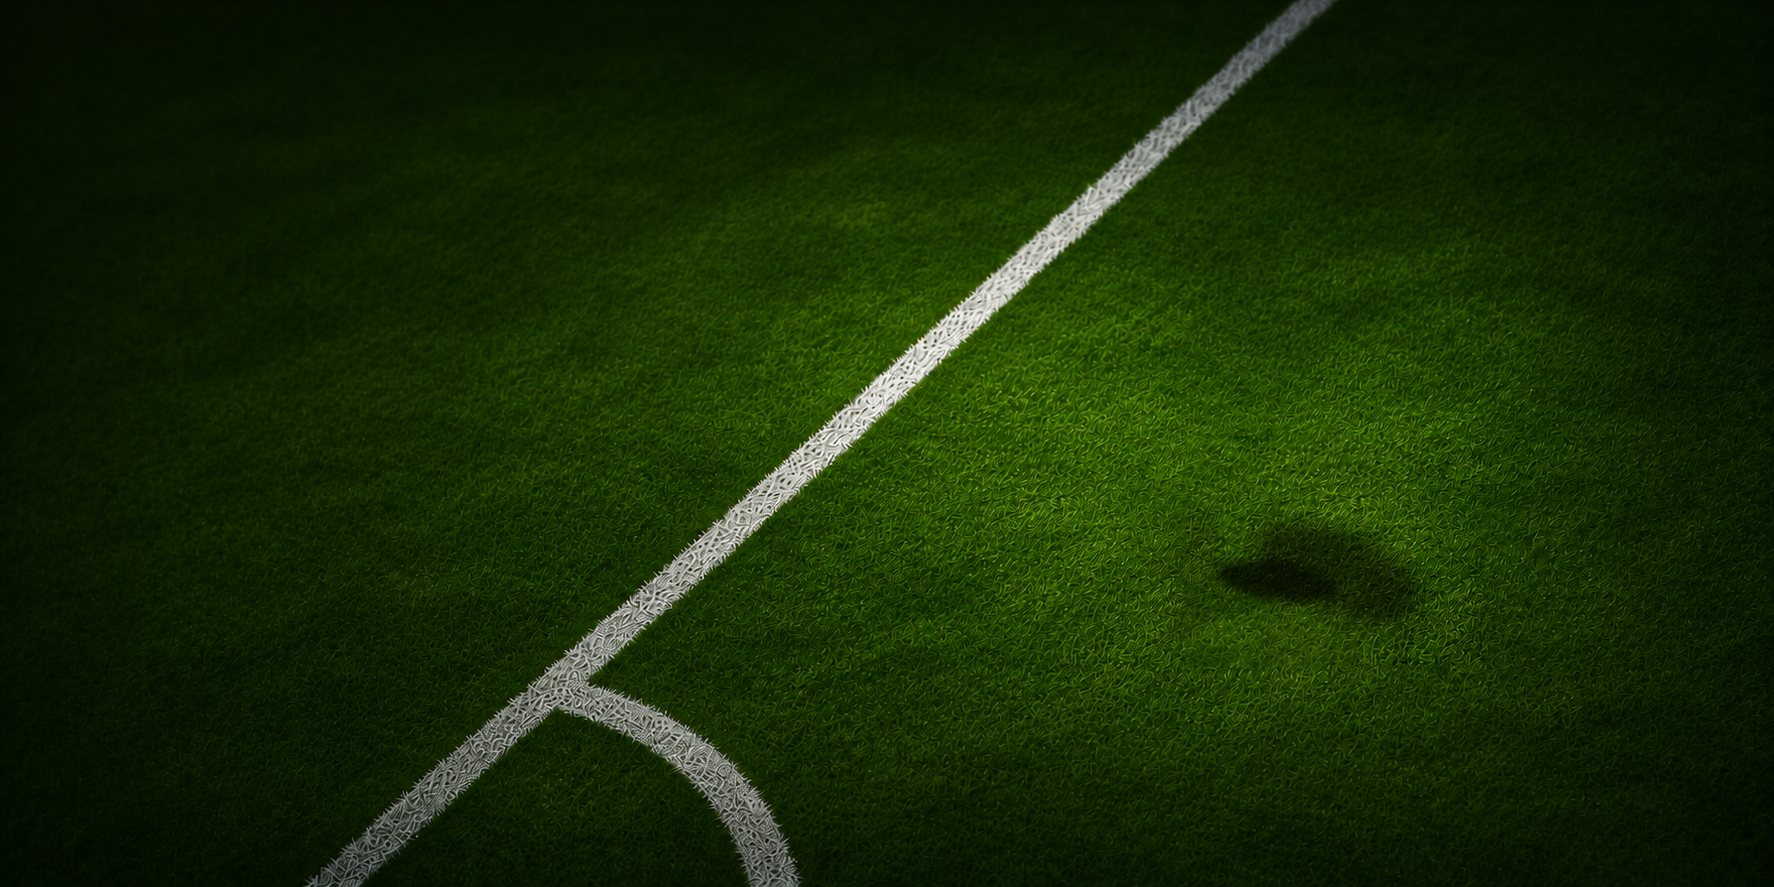
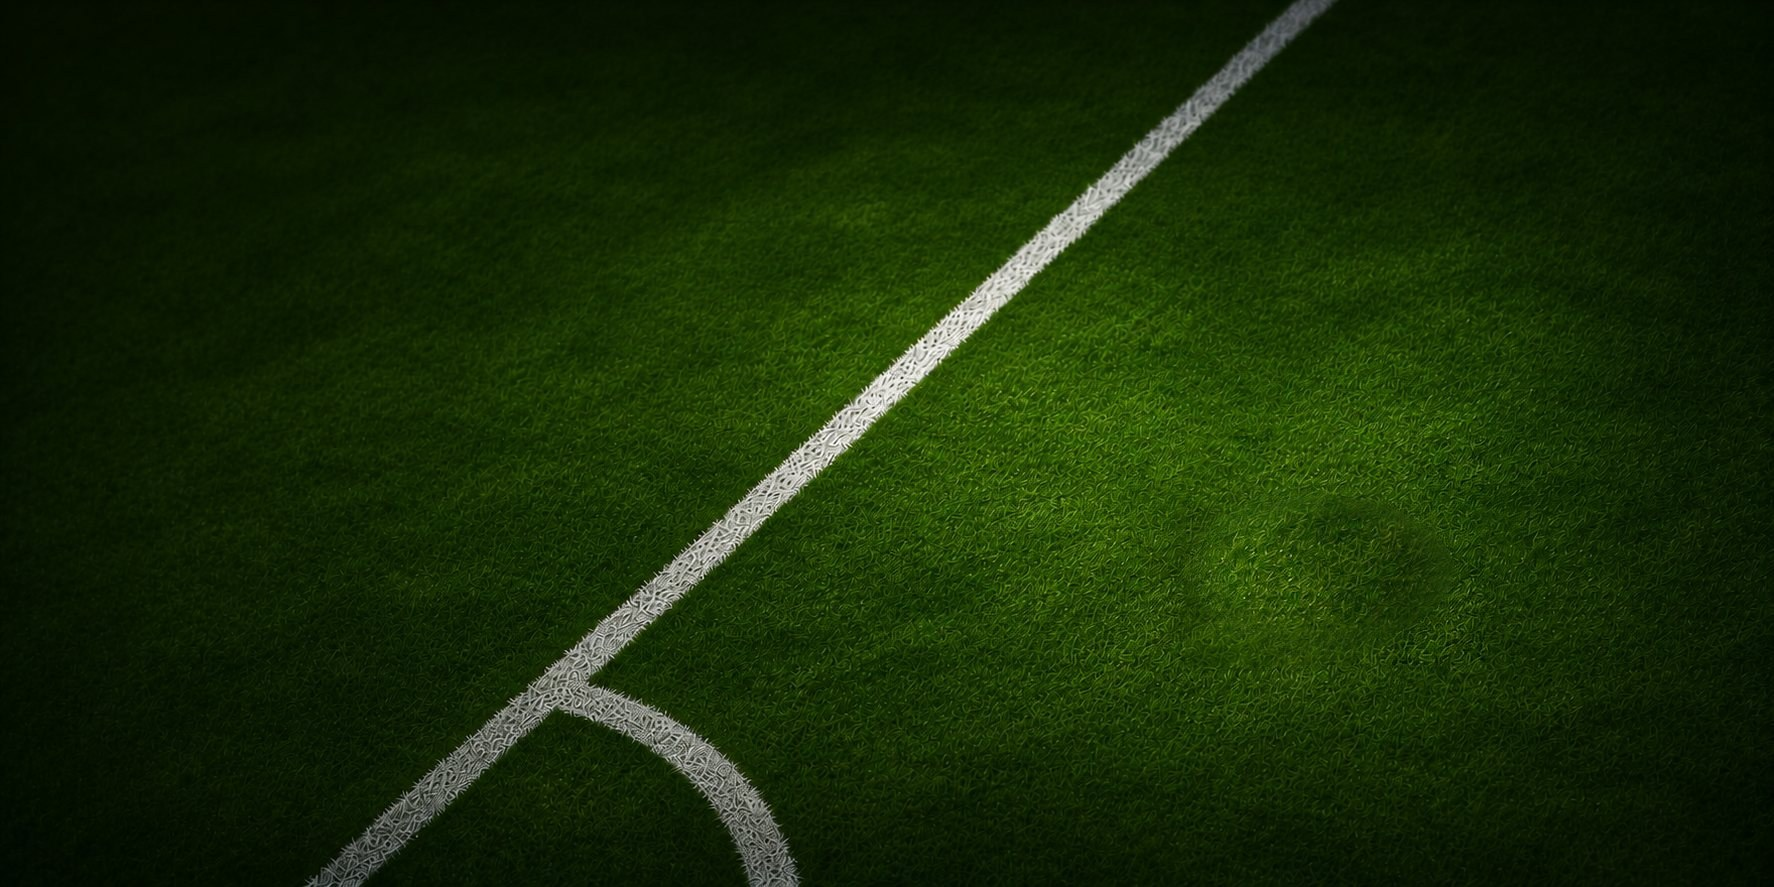
인트로: 공이 굴러가고 카메라가 위로 올라가는 연출
Claude-Session: https://claude.ai/code/session_017rSKLJUKrC3BC1iaB8TaZM

Changed region(s): [[0.6511, 0.5479, 0.8061, 0.7306]]

diff --git a/src/app/globals.css b/src/app/globals.css
@@ -111,7 +111,14 @@ html { scroll-behavior: smooth; }
 .intro-grass { filter: brightness(.74) saturate(.92); opacity: clamp(0, calc((var(--p) - .26) * 3.2), 1); }
 .intro-vignette { position: absolute; inset: 0; background: radial-gradient(ellipse at 50% 55%, transparent 45%, rgba(0,0,0,.55) 100%); opacity: clamp(0, calc(1 - var(--p) * 3), 1); }
 
-.intro-gwrap { position: absolute; left: 50%; top: 50%; transform: translate(-50%, -50%); width: max(100vw, 200vh); aspect-ratio: 2 / 1; }
+.intro-gwrap { position: absolute; left: 50%; top: 50%; width: max(100vw, 200vh); aspect-ratio: 2 / 1;
+  /* 카메라 무빙: 낮은 시점(비스듬히 보는 잔디)에서 위로 올라가며 위에서 내려다보는 시점으로 */
+  --k: calc(1 - clamp(0, (var(--p) - .24) / .46, 1));
+  transform: translate(-50%, -50%) perspective(1100px) rotateX(calc(var(--k) * 34deg)) scale(calc(1 + var(--k) * .55)) translateY(calc(var(--k) * -4%)); }
+.intro-endshadow { position: absolute; inset: 0; pointer-events: none; opacity: clamp(0, calc((var(--p) - .7) * 10), 1); }
+.intro-endshadow i { position: absolute; display: block; border-radius: 50%; background: #000; }
+.intro-endshadow .intro-w { left: 68.2%; top: 57.5%; width: 12.4%; height: 13.5%; opacity: .5; filter: blur(max(1.1vw, 2.2vh)); }
+.intro-endshadow .intro-c { left: 68.8%; top: 63.1%; width: 6.5%; height: 4.5%; opacity: .8; filter: blur(max(.45vw, .9vh)); }
 .intro-endball { left: 67.64%; top: 49.57%; width: 7.75%; height: 19.37%; object-fit: fill; opacity: clamp(0, calc((var(--p) - .7) * 10), 1); }
 /* 공 (검은 배경 사진을 공 모양으로만 오려 씀) */
 .intro-ball {
@@ -120,7 +127,8 @@ html { scroll-behavior: smooth; }
   --q: clamp(0, calc((var(--p) - .08) / .6), 1);
   --s: clamp(0, calc(var(--q) * 1.8), 1);
   filter: brightness(calc(1 - var(--s) * .3)) saturate(calc(1 - var(--s) * .38)) contrast(calc(1 - var(--s) * .12));
-  transform: translate(calc(var(--q) * 64.2%), calc(var(--q) * 6.9%)) scale(calc(1 - var(--s) * 0.771));
+  --r: clamp(0, calc((var(--p) - .26) / .42), 1);
+  transform: translate(calc(var(--q) * 64.2%), calc(var(--q) * 6.9%)) scale(calc(1 - var(--s) * 0.771)) rotate(calc(var(--r) * 360deg));
   opacity: clamp(0, calc((.8 - var(--p)) * 10), 1);
 }
 
@@ -156,7 +164,7 @@ html { scroll-behavior: smooth; }
 
 @media (max-width: 700px) {
   .intro-wrap { width: 230vw; }
-  .intro-gwrap { height: 100%; width: calc(100svh * 2); left: calc((100vw - 100svh * 2) * .74); top: 0; transform: none; }
+  .intro-gwrap { height: 100%; width: calc(100svh * 2); left: calc((100vw - 100svh * 2) * .74); top: 0; transform: perspective(900px) rotateX(calc(var(--k) * 30deg)) scale(calc(1 + var(--k) * .5)); }
   .intro-endball { opacity: clamp(0, calc((var(--p) - .45) * 5), 1); }
   .intro-grass { filter: brightness(.74) saturate(.92); opacity: clamp(0, calc((var(--p) - .42) * 5), 1); }
   .intro-bshadow { transform: scale(calc(1 - var(--p) * .15)); opacity: clamp(0, calc((.5 - var(--p)) * 8), 1); }

diff --git a/src/components/IntroHero.tsx b/src/components/IntroHero.tsx
@@ -81,6 +81,10 @@ export default function IntroHero() {
 
           <div className="intro-gwrap">
             <img className="intro-bg intro-grass" src="/images/intro/hero-grass.jpg" alt="" draggable={false} />
+            <div className="intro-endshadow">
+              <i className="intro-w" />
+              <i className="intro-c" />
+            </div>
             <img className="intro-endball" src="/images/intro/ball-end.webp" alt="" draggable={false} />
           </div>
 
